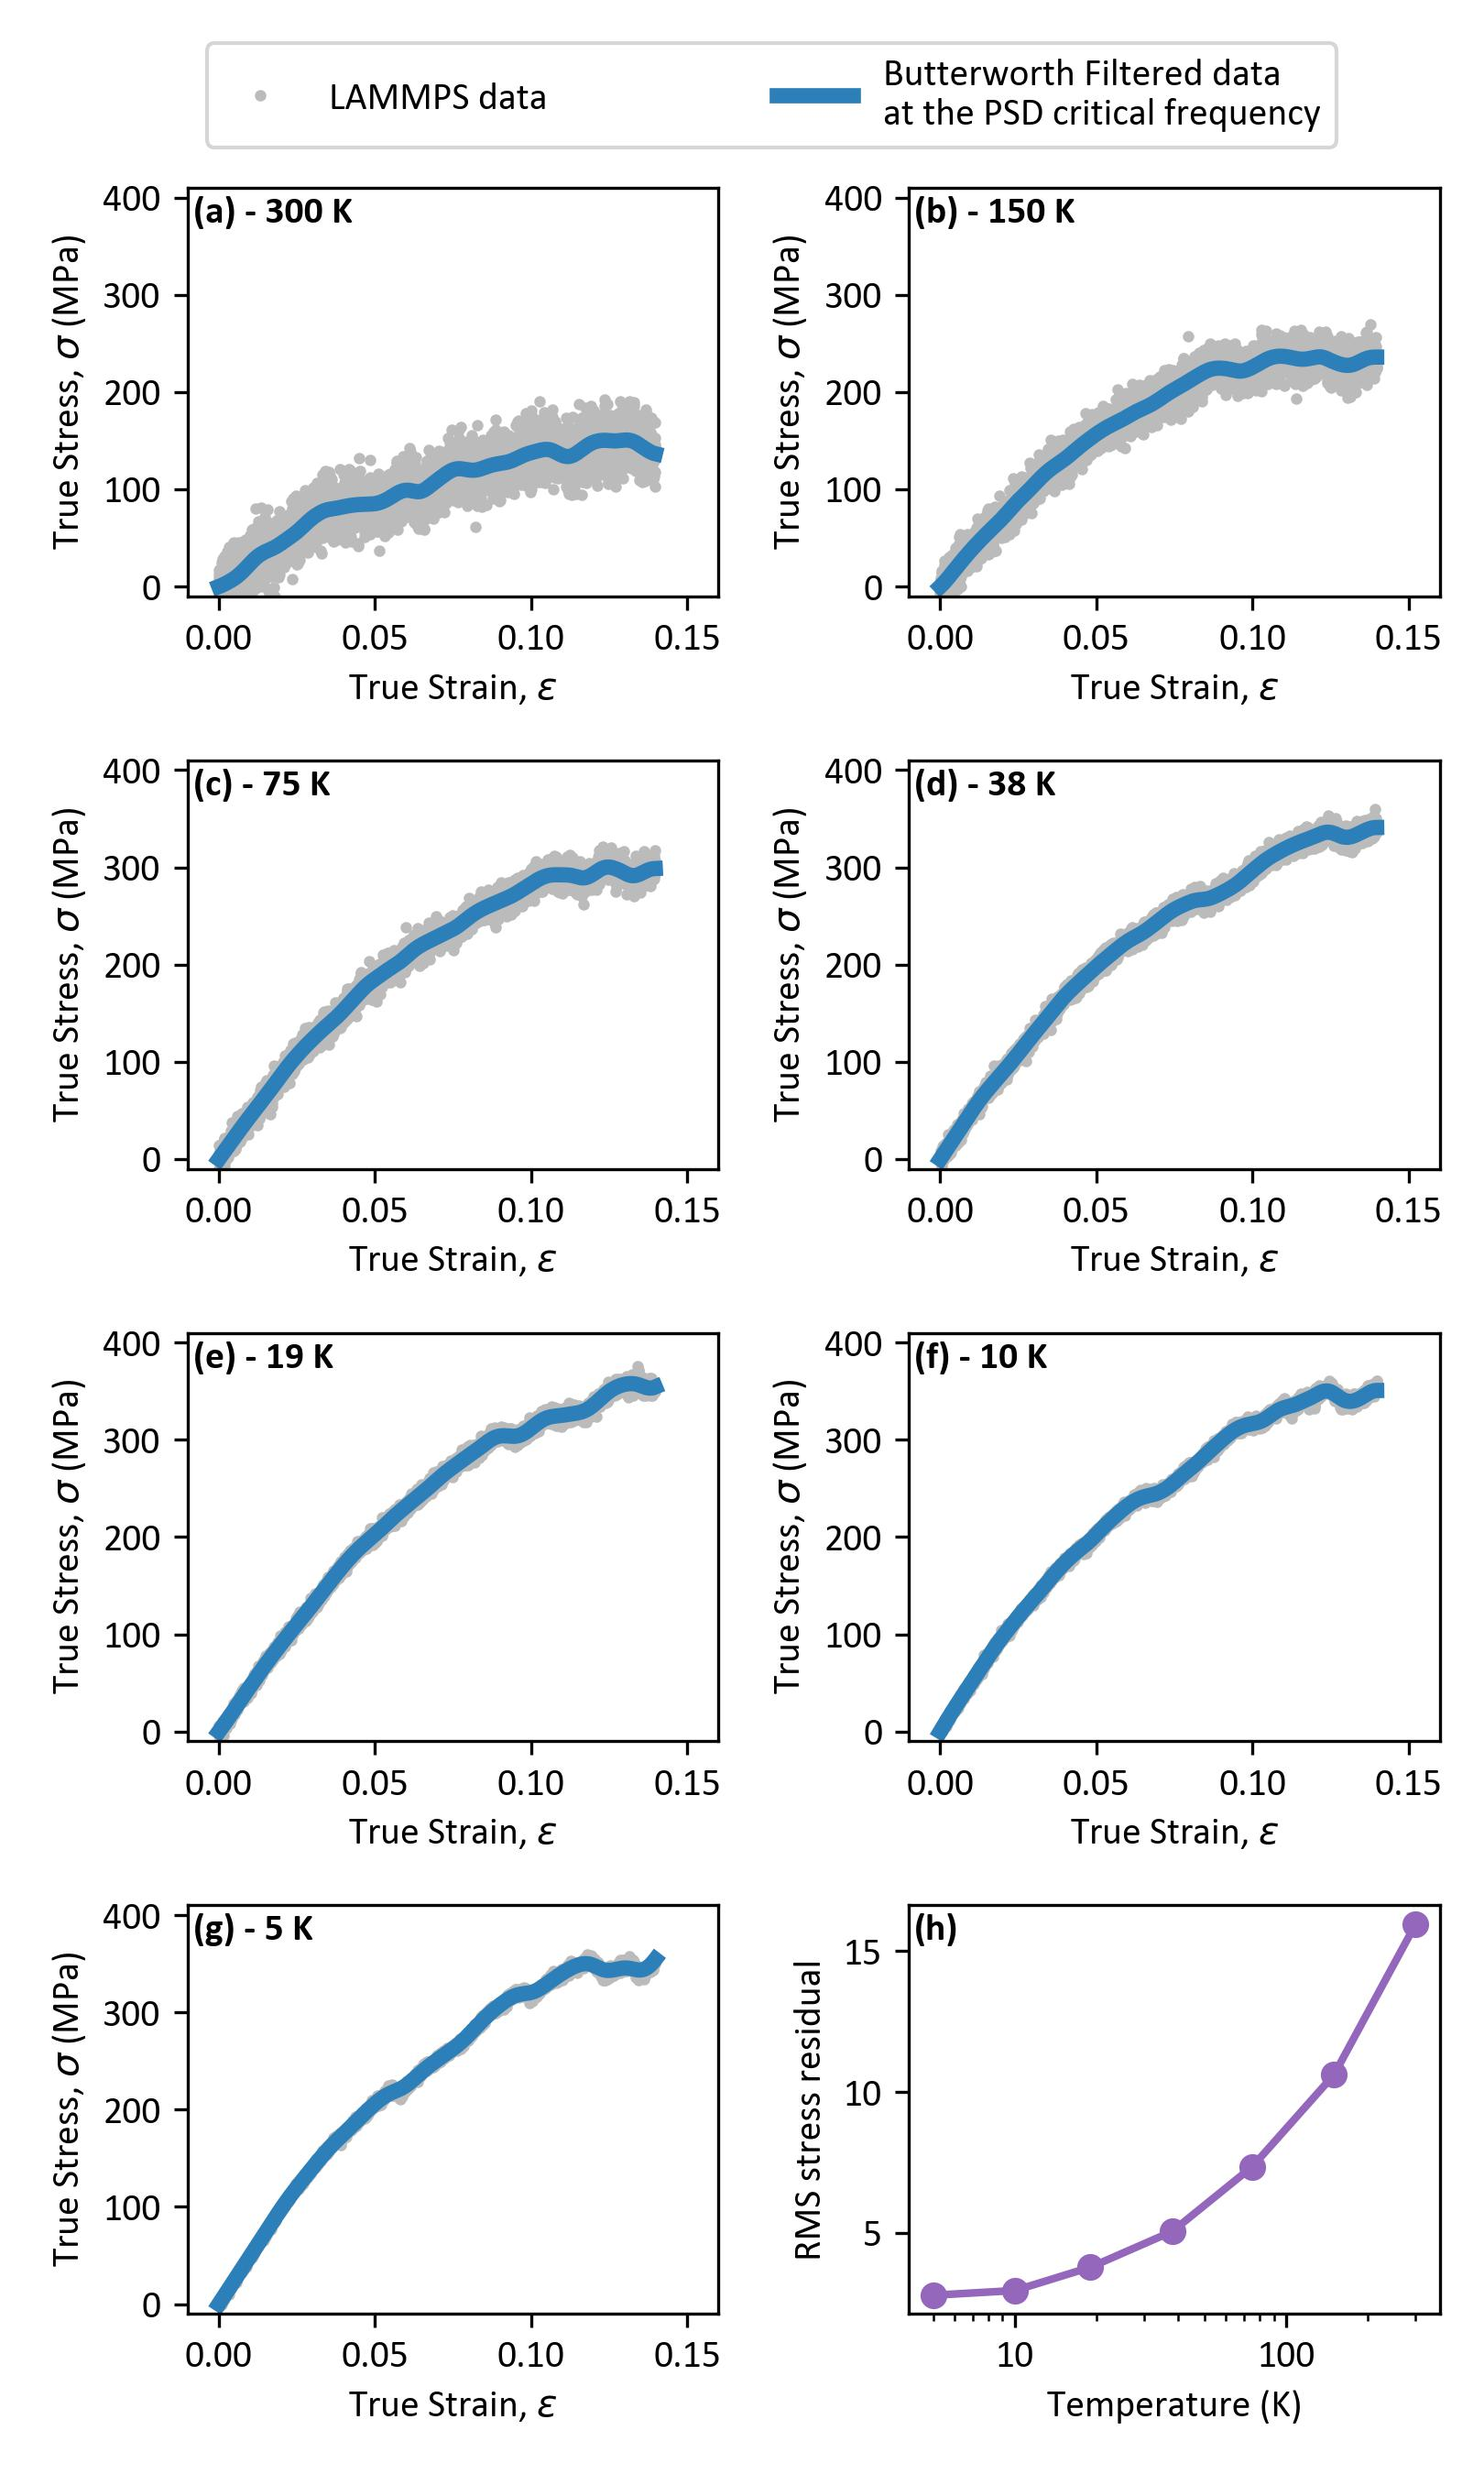
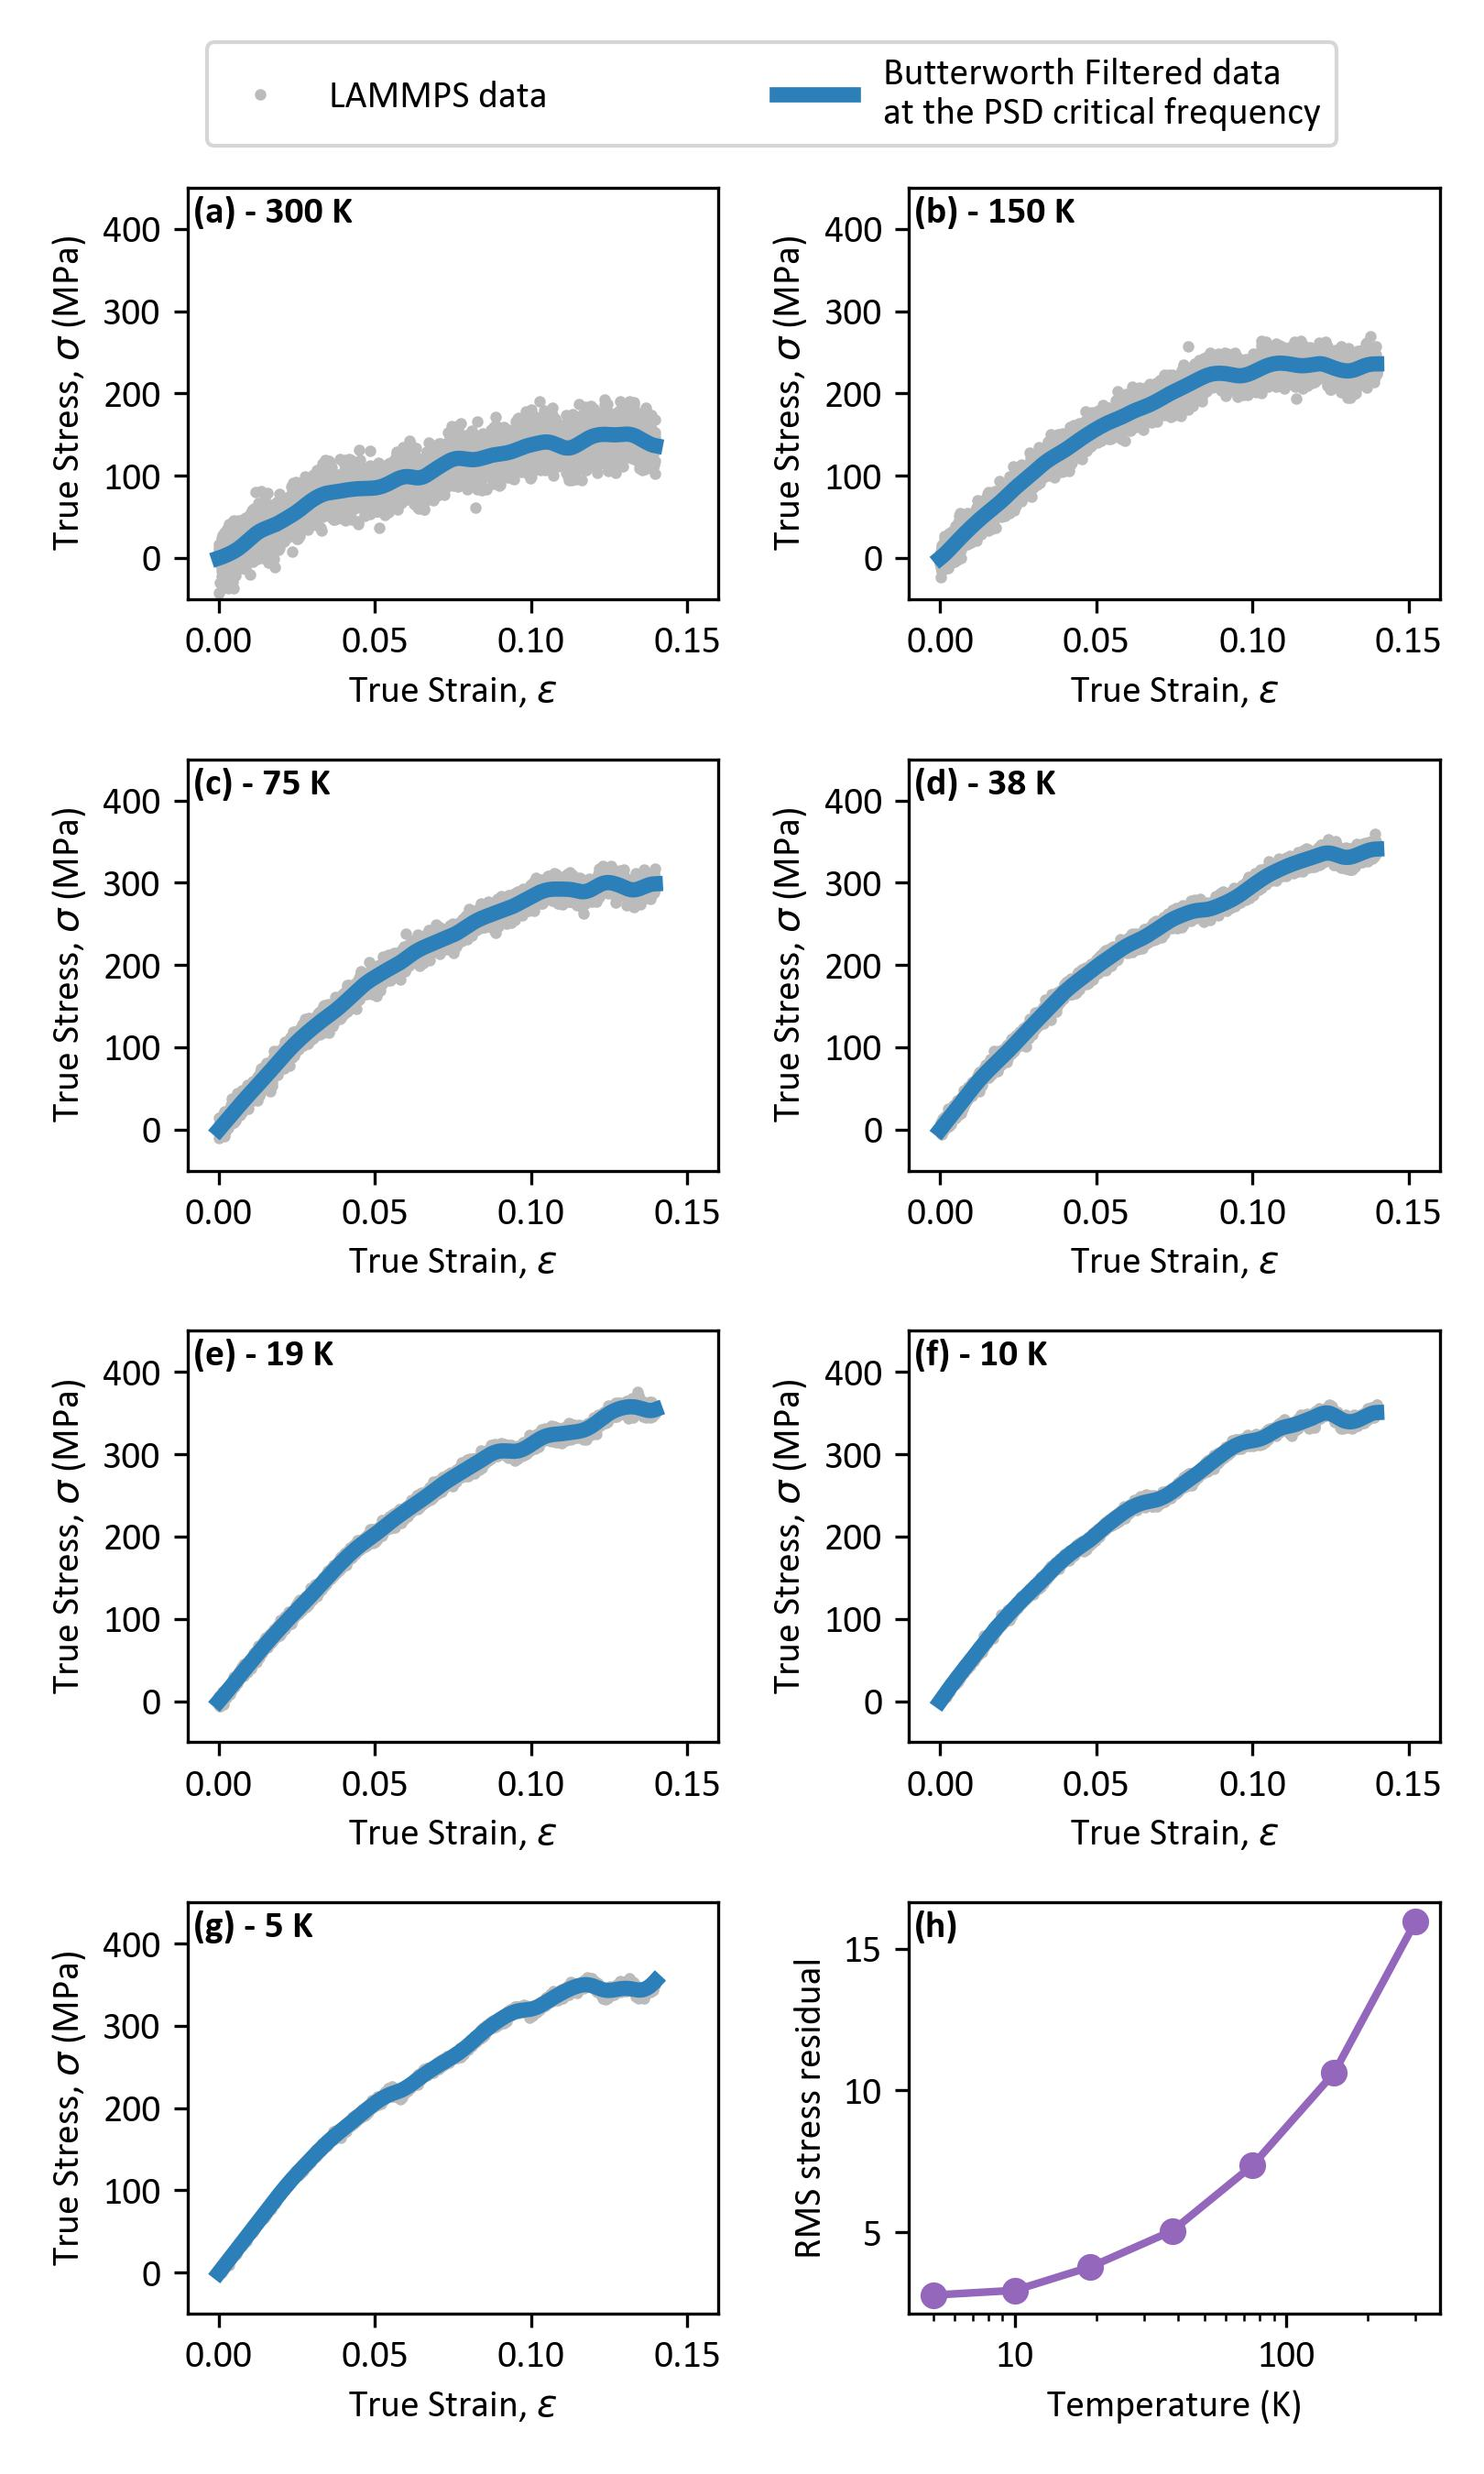
Adding examples

diff --git a/temp_study.py b/temp_study.py
@@ -278,7 +278,7 @@ if __name__ == "__main__":
     plt.rcParams['axes.prop_cycle'] = cycler(color=colors)
 
     # Set xlimits
-    xdelta, ydelta = 0.01, 10
+    xdelta, ydelta = 0.01, 50
     min_strain, max_strain = 0, 0.15
     min_stress, max_stress = 0, 400
     xlimits = (min_strain - xdelta, max_strain + xdelta)
@@ -373,6 +373,7 @@ if __name__ == "__main__":
     
     
     ax8.plot(temp, rms, '-o', ms=6, lw=2, color='tab:purple', label='RMS')
+    #ax8.set_yticks([0, 5, 10, 15, 20])
     ax8.set_xscale('log')
     ax8.xaxis.set_major_formatter(ScalarFormatter())
     ax8.text(*label_rel_pos, '(h)', transform=ax8.transAxes, fontsize=fs, fontweight='bold', va='top', ha='left')
